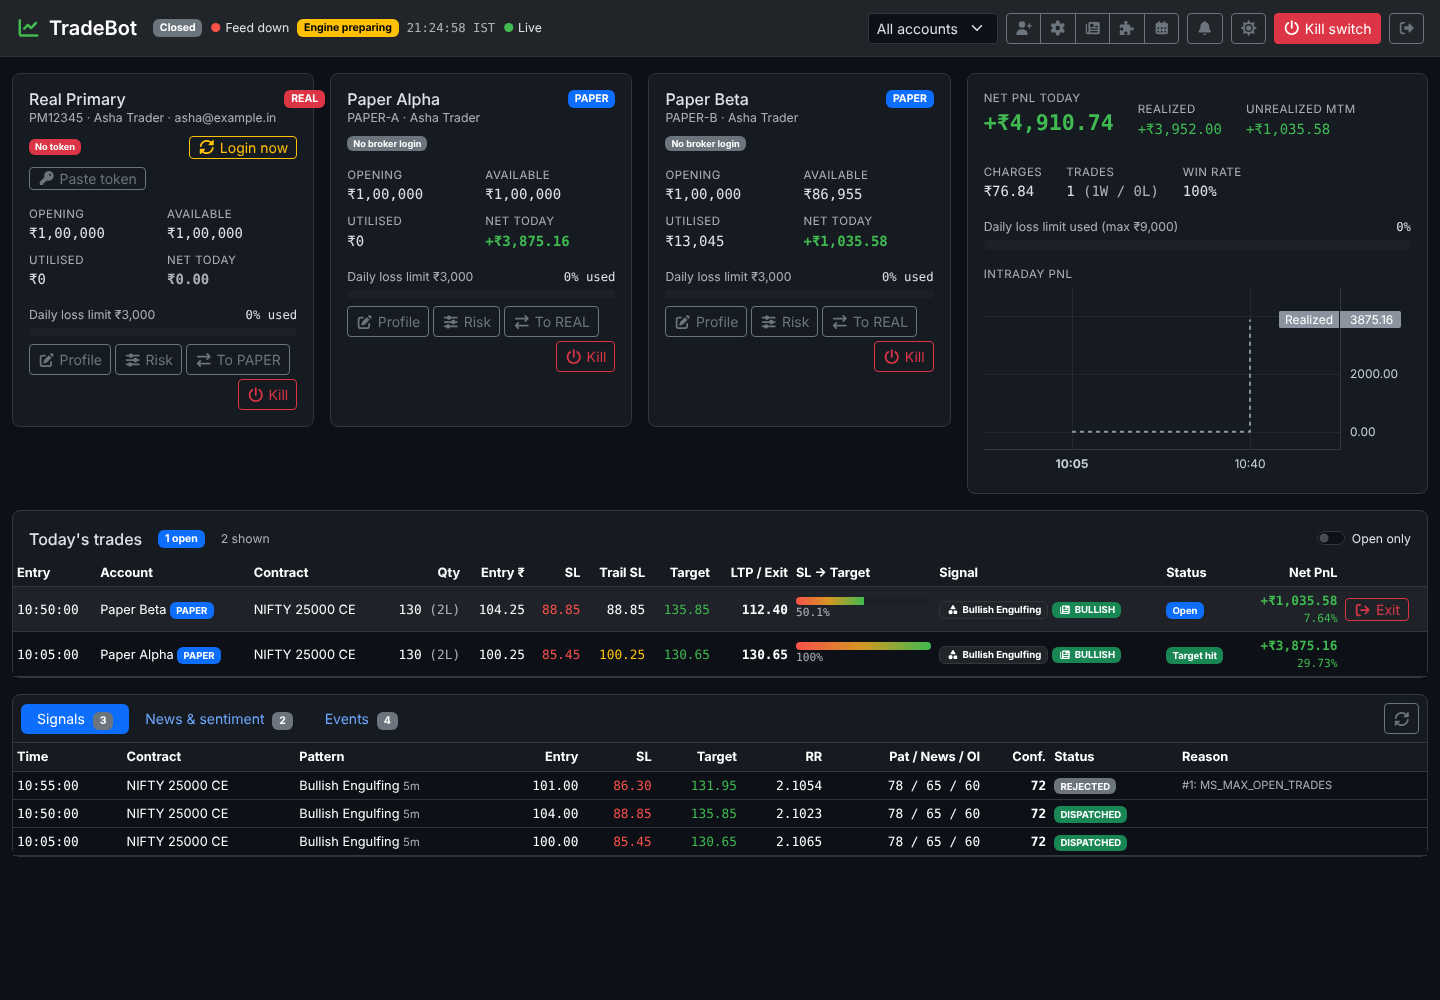
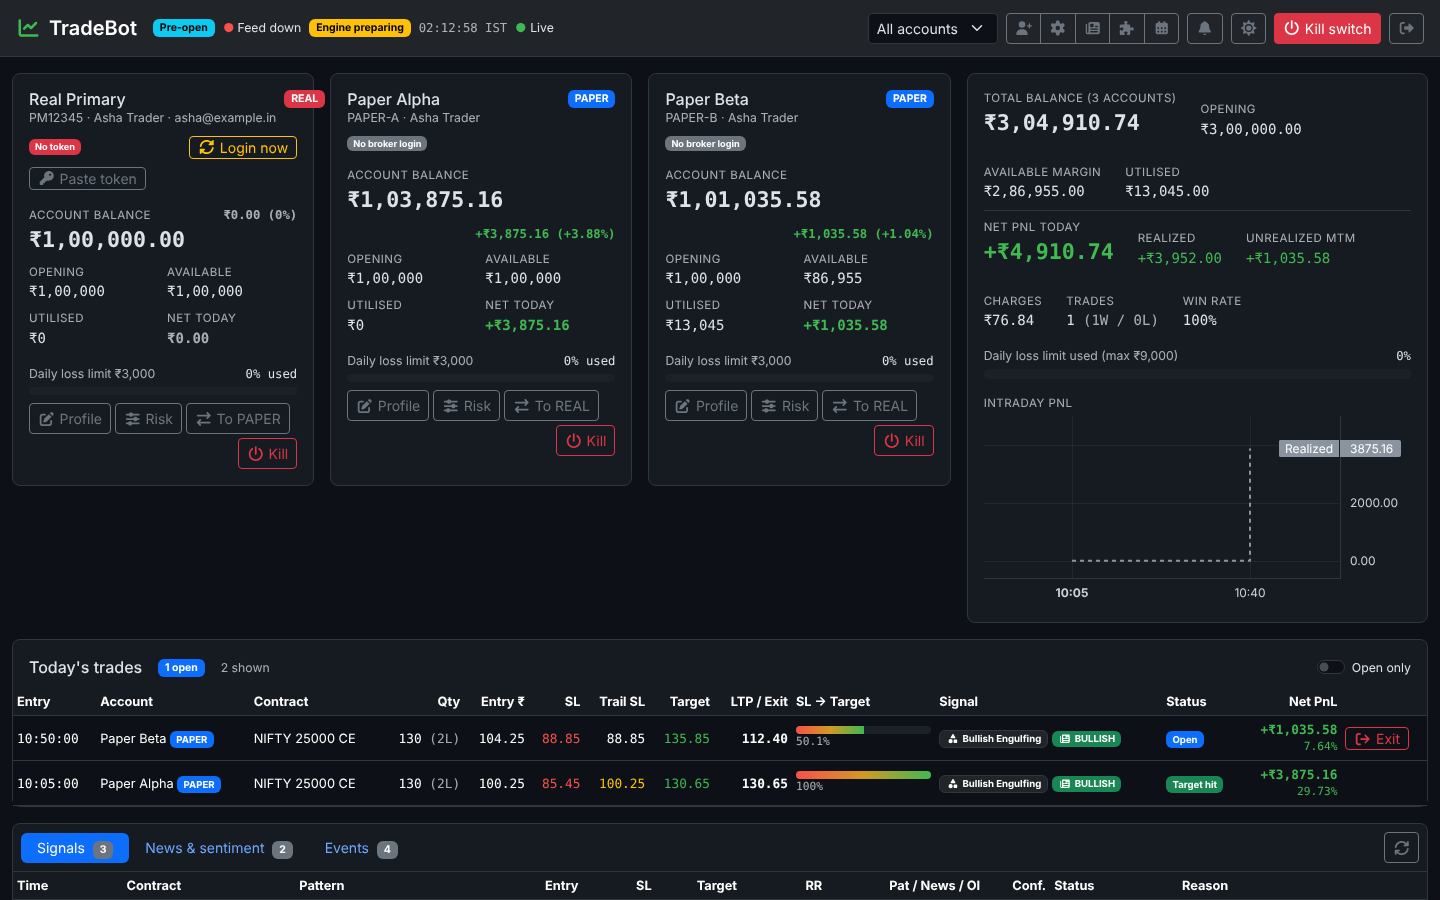
Show account balance on the dashboard
Each account card now leads with its balance (opening balance + today's
net PnL, i.e. realized + MTM − charges) and the ₹ / % change; REAL cards
note when funds were last synced from Paytm. The PnL panel opens with the
total balance across the accounts in scope, with opening, available and
utilised margin totals.

Claude-Session: https://claude.ai/code/session_01HZSdzrNpWP7uRFZXrggShp

diff --git a/frontend/src/app/features/dashboard/pnl-panel.ts b/frontend/src/app/features/dashboard/pnl-panel.ts
@@ -9,6 +9,15 @@ import { InrPipe, pnlClass } from '../../shared/format';
   template: `
     <section class="tb-panel p-3 h-100" aria-label="Profit and loss">
       @if (pnl(); as p) {
+        <div class="d-flex flex-wrap align-items-end gap-4 mb-2 pb-2 border-bottom">
+          <div>
+            <div class="tb-label">Total balance ({{ accountCount() }} {{ accountCount() === 1 ? 'account' : 'accounts' }})</div>
+            <div class="tb-kpi num" data-testid="total-balance">{{ totals().balance | inr }}</div>
+          </div>
+          <div><div class="tb-label">Opening</div><div class="num">{{ totals().opening | inr }}</div></div>
+          <div><div class="tb-label">Available margin</div><div class="num">{{ totals().available | inr }}</div></div>
+          <div><div class="tb-label">Utilised</div><div class="num">{{ totals().utilised | inr }}</div></div>
+        </div>
         <div class="d-flex flex-wrap align-items-end gap-4 mb-3">
           <div>
             <div class="tb-label">Net PnL today</div>
@@ -47,5 +56,11 @@ export class PnlPanel {
   protected readonly store = inject(DashboardStore);
   protected readonly pnlClass = pnlClass;
   protected readonly pnl = computed(() => this.store.overview()?.consolidated ?? null);
+  protected readonly accountCount = computed(() => this.store.overview()?.accounts.length ?? 0);
+  protected readonly totals = computed(() => {
+    const cards = this.store.overview()?.accounts ?? [];
+    const sum = (f: (c: (typeof cards)[number]) => number) => Math.round(cards.reduce((t, c) => t + f(c), 0) * 100) / 100;
+    return { balance: sum((c) => c.balance), opening: sum((c) => c.openingBalance), available: sum((c) => c.availableMargin), utilised: sum((c) => c.utilisedMargin) };
+  });
   protected readonly hasCurve = computed(() => this.store.pnlCurve().net.length > 1 || this.store.pnlCurve().realized.length > 0);
 }

diff --git a/frontend/src/app/features/dashboard/account-cards.ts b/frontend/src/app/features/dashboard/account-cards.ts
@@ -53,11 +53,23 @@ interface CardView { card: AccountCard; profile: AccountDto | undefined; pnl: Ac
               }
             </div>
 
+            <div class="d-flex align-items-baseline flex-wrap gap-2 mb-2" data-testid="account-balance">
+              <div>
+                <div class="tb-label">Account balance</div>
+                <div class="tb-kpi num">{{ v.card.balance | inr }}</div>
+              </div>
+              <span class="num small fw-semibold ms-auto" [class]="pnlClass(v.card.balanceChange)">
+                {{ v.card.balanceChange | inr: 'signed' }} ({{ v.card.balanceChangePct > 0 ? '+' : '' }}{{ v.card.balanceChangePct }}%)
+              </span>
+            </div>
             <div class="row g-2 mb-3">
               <div class="col-6"><div class="tb-label">Opening</div><div class="num">{{ v.card.openingBalance | inr: 'whole' }}</div></div>
               <div class="col-6"><div class="tb-label">Available</div><div class="num">{{ v.card.availableMargin | inr: 'whole' }}</div></div>
               <div class="col-6"><div class="tb-label">Utilised</div><div class="num">{{ v.card.utilisedMargin | inr: 'whole' }}</div></div>
               <div class="col-6"><div class="tb-label">Net today</div><div class="num fw-semibold" [class]="pnlClass(v.pnl?.pnl?.net)">{{ v.pnl?.pnl?.net | inr: 'signed' }}</div></div>
+              @if (v.card.fundsSyncedAtUtc && v.card.mode === 'REAL') {
+                <div class="col-12 small text-body-secondary">Funds from Paytm, synced {{ v.card.fundsSyncedAtUtc | ist }}</div>
+              }
             </div>
 
             @if (v.pnl?.pnl; as p) {

diff --git a/frontend/e2e/dashboard.spec.ts b/frontend/e2e/dashboard.spec.ts
@@ -40,6 +40,13 @@ test('shows account profiles, funds, consolidated PnL and the trade book', async
   // Realized 3,952.00 − charges 76.84 on Paper Alpha + open MTM (112.40 − 104.25) × 130 − 23.92 on Paper Beta
   await expect(page.getByTestId('net-pnl')).toHaveText('+₹4,910.74');
 
+  // Balance = opening + today's net, per account and in total
+  await expect(card('Paper Alpha').getByTestId('account-balance')).toContainText('₹1,03,875.16');
+  await expect(card('Paper Alpha').getByTestId('account-balance')).toContainText('+₹3,875.16 (+3.88%)');
+  await expect(card('Paper Beta').getByTestId('account-balance')).toContainText('₹1,01,035.58');
+  await expect(card('Real Primary').getByTestId('account-balance')).toContainText('₹1,00,000.00');
+  await expect(page.getByTestId('total-balance')).toHaveText('₹3,04,910.74');
+
   const rows = page.locator('tb-trade-grid tbody tr[data-trade-id]');
   await expect(rows).toHaveCount(2);
   const open = rows.filter({ hasText: 'Paper Beta' });

diff --git a/frontend/src/app/core/models.ts b/frontend/src/app/core/models.ts
@@ -27,6 +27,8 @@ export interface AccountCard {
   accountId: number; accountName: string; clientId: string; userName: string; mode: TradeMode; isDataProvider: boolean; isActive: boolean;
   tokenStatus: TokenStatus; tokenExpiryUtc: string | null; tokenSecondsLeft: number | null;
   openingBalance: number; availableMargin: number; utilisedMargin: number; allocatedCapital: number; fundsSyncedAtUtc: string | null;
+  /** Opening balance + today's net PnL (realized + MTM − charges). */
+  balance: number; balanceChange: number; balanceChangePct: number;
 }
 
 export interface PnlSummary {

diff --git a/backend/src/TradeBot.Application/Engine/DashboardService.cs b/backend/src/TradeBot.Application/Engine/DashboardService.cs
@@ -9,7 +9,8 @@ namespace TradeBot.Application.Engine;
 public sealed record AccountCard(
     long AccountId, string AccountName, string ClientId, string UserName, TradeMode Mode, bool IsDataProvider, bool IsActive,
     string TokenStatus, DateTime? TokenExpiryUtc, long? TokenSecondsLeft,
-    decimal OpeningBalance, decimal AvailableMargin, decimal UtilisedMargin, decimal AllocatedCapital, DateTime? FundsSyncedAtUtc);
+    decimal OpeningBalance, decimal AvailableMargin, decimal UtilisedMargin, decimal AllocatedCapital, DateTime? FundsSyncedAtUtc,
+    decimal Balance, decimal BalanceChange, decimal BalanceChangePct);
 
 public sealed record PnlSummary(
     decimal RealizedGross, decimal UnrealizedMtm, decimal Charges, decimal Net, int TotalTrades, int Wins, int Losses, decimal WinRatePct,
@@ -46,6 +47,11 @@ public sealed class DashboardService(ConfigCache config, TokenStore tokens, Trad
         var live = trades.OpenTrades.ToDictionary(t => t.Trade.TradeId);
         var rows = (await trading.TradesAsync(today, null, ct)).Where(t => ids.Contains(t.AccountId)).Select(t => Row(t, live.GetValueOrDefault(t.TradeId)?.Trade)).ToList();
 
+        // MTM from the same rows the grid shows (live LTP for engine-managed trades, else last persisted LTP), net of entry charges
+        var mtm = rows.Where(r => r.Status == TradeStatus.Open).GroupBy(r => r.AccountId).ToDictionary(g => g.Key, g => g.Sum(r => r.NetPnl));
+        var perAccount = accounts.Select(a => new AccountPnl(a.AccountId, a.AccountName, a.TradeMode,
+            Summary(days.GetValueOrDefault(a.AccountId), mtm.GetValueOrDefault(a.AccountId), a.RiskConfig?.MaxDailyLoss ?? 0))).ToList();
+
         var cards = accounts.Select(a =>
         {
             var tok = tokens.Latest(a.AccountId);
@@ -60,16 +66,15 @@ public sealed class DashboardService(ConfigCache config, TokenStore tokens, Trad
                 _ => "PENDING",
             };
             var r = a.RiskConfig;
+            // Balance = opening balance + today's net (realized + MTM − charges), the same figure as the PnL panel
+            var opening = days.GetValueOrDefault(a.AccountId)?.OpeningBalance ?? r?.OpeningBalance ?? 0;
+            var change = perAccount.First(p => p.AccountId == a.AccountId).Pnl.Net;
             return new AccountCard(a.AccountId, a.AccountName, a.ClientId, a.UserName, a.TradeMode, a.IsDataProvider, a.IsActive, status,
                 tok?.TokenExpiry, tok?.TokenExpiry is { } exp ? (long)Math.Max(0, (exp - now).TotalSeconds) : null,
-                days.GetValueOrDefault(a.AccountId)?.OpeningBalance ?? r?.OpeningBalance ?? 0, r?.AvailableMargin ?? 0, r?.UtilisedMargin ?? 0,
-                r?.AllocatedCapital ?? 0, r?.FundsSyncedAt);
+                opening, r?.AvailableMargin ?? 0, r?.UtilisedMargin ?? 0, r?.AllocatedCapital ?? 0, r?.FundsSyncedAt,
+                Math.Round(opening + change, 2), Math.Round(change, 2), opening == 0 ? 0 : Math.Round(change / opening * 100, 2));
         }).ToList();
 
-        // MTM from the same rows the grid shows (live LTP for engine-managed trades, else last persisted LTP), net of entry charges
-        var mtm = rows.Where(r => r.Status == TradeStatus.Open).GroupBy(r => r.AccountId).ToDictionary(g => g.Key, g => g.Sum(r => r.NetPnl));
-        var perAccount = accounts.Select(a => new AccountPnl(a.AccountId, a.AccountName, a.TradeMode,
-            Summary(days.GetValueOrDefault(a.AccountId), mtm.GetValueOrDefault(a.AccountId), a.RiskConfig?.MaxDailyLoss ?? 0))).ToList();
         var consolidated = Combine(perAccount.Select(p => p.Pnl).ToList());
 
         var bot = await trading.GetOrCreateBotStateAsync(today, ct);

diff --git a/backend/tests/TradeBot.Api.Tests/PaperTradeEndToEndTests.cs b/backend/tests/TradeBot.Api.Tests/PaperTradeEndToEndTests.cs
@@ -111,6 +111,9 @@ public class PaperTradeEndToEndTests(ApiFactory api)
 
         overview = (await client.GetFromJsonAsync<JsonObject>($"/api/dashboard/overview?scope={accountId}"))!;
         var pnl = overview["perAccount"]![0]!["pnl"]!;
+        var acct = overview["accounts"]![0]!;
+        Assert.Equal(acct["openingBalance"]!.GetValue<decimal>() + pnl["net"]!.GetValue<decimal>(), acct["balance"]!.GetValue<decimal>());
+        Assert.Equal(pnl["net"]!.GetValue<decimal>(), acct["balanceChange"]!.GetValue<decimal>());
         Assert.Equal(3, pnl["totalTrades"]!.GetValue<int>());
         Assert.Equal(closed1.NetPnl + closed2.NetPnl + closed3.NetPnl, pnl["net"]!.GetValue<decimal>());
         Assert.Equal(new[] { "TARGET_HIT", "SL_HIT", "MANUAL_EXIT" },

diff --git a/docs/PHASE4_DASHBOARD.md b/docs/PHASE4_DASHBOARD.md
@@ -10,8 +10,8 @@ One page; every editor opens as an offcanvas drawer over it, so the trade book s
 | Area | Content | Source |
 |---|---|---|
 | Header | Market session, feed state, engine readiness, IST clock, socket link state, scope (All / REAL / PAPER / one account), config buttons, mute, theme, global kill switch, sign-out | `/ws/dashboard` overview |
-| Account cards | Profile (client ID, holder, email), mode and data-provider badges, broker-token status with live countdown, **Login now** / **Paste token**, opening balance, available and utilised margin, net today, daily loss-limit bar, kill / profit-lock state; Profile, Risk, mode switch and Kill actions | overview + `GET /api/accounts` |
-| PnL panel | Net PnL, realized, unrealized MTM, charges, trades W/L, win rate, consolidated loss-limit bar; intraday PnL chart (net incl. MTM as a baseline series, realized as steps) | overview + `GET /api/dashboard/pnl-curve` |
+| Account cards | Profile (client ID, holder, email), mode and data-provider badges, broker-token status with live countdown, **Login now** / **Paste token**, **account balance** (opening + today's net, with ₹ and % change), opening balance, available and utilised margin, net today, daily loss-limit bar, kill / profit-lock state; Profile, Risk, mode switch and Kill actions | overview + `GET /api/accounts` |
+| PnL panel | **Total balance** across the accounts in scope with opening, available and utilised margin totals; net PnL, realized, unrealized MTM, charges, trades W/L, win rate, consolidated loss-limit bar; intraday PnL chart (net incl. MTM as a baseline series, realized as steps) | overview + `GET /api/dashboard/pnl-curve` |
 | Trade grid | Entry time, account + mode, contract, qty/lots, entry, SL, trailing SL (amber once raised), target, LTP / exit, **SL → target progress bar**, pattern badge, news-sentiment badge (headline on hover), status, net PnL and %, **Exit** for open trades; "Open only" filter | overview `trades` |
 | Trade drawer | Option candles (1m/3m/5m/15m) with entry / SL / trailing SL / target / exit lines and buy/sell markers; underlying candles with the pattern's pivots and breakout line; every order leg with status, trigger and broker number | `GET /api/trades/{id}`, `GET /api/candles` |
 | Tabs | Signals (scores, RR, status, rejection reason) · News & sentiment (per-instrument bias chips, news with impact and sources, **Scan now**) · Events | `GET /api/signals`, `/api/news`, `/api/news/sentiment`, `/api/events` |
